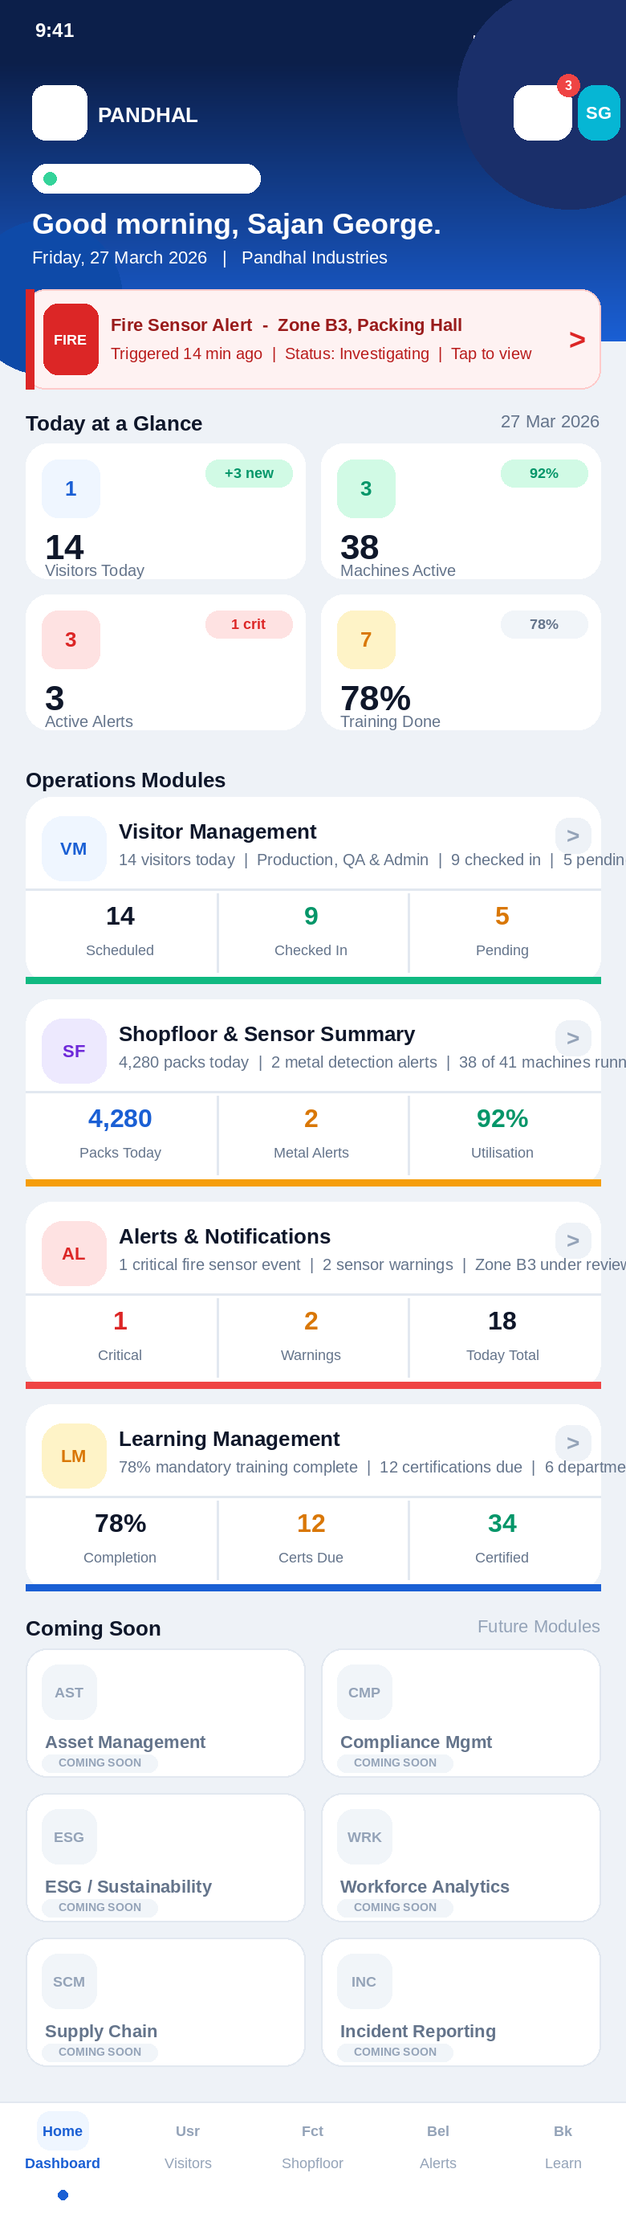
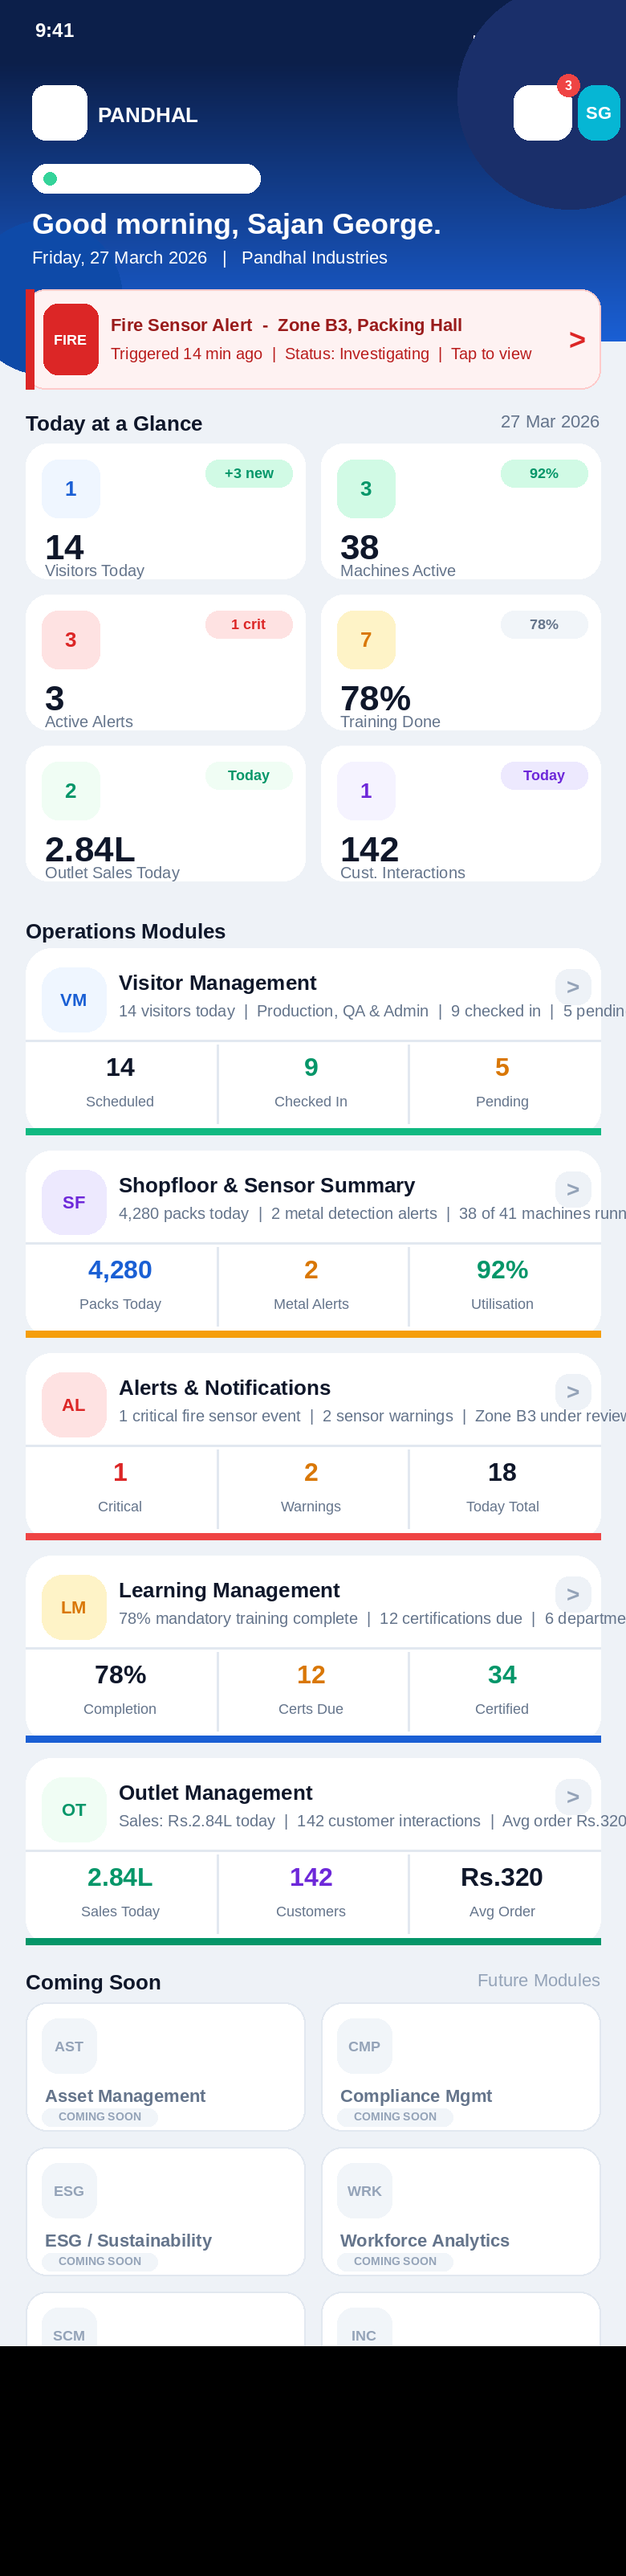
feat: Add Outlet module card and outlet stat cards to dashboard
- Added 'Outlet Sales Today' and 'Cust. Interactions' summary cards
  to the Today at a Glance stats grid (now 3 rows x 2 cols)
- Added 'Outlet Management' as 5th module card with Sales, Customers
  and Avg Order metrics strip
- Canvas height updated to accommodate new content (780x3206px @2x)

https://claude.ai/code/session_01AW6F833uUL7VTLnjMYrGiX

Changed region(s): [[0.0, 0.0, 1.0, 1.0], [0.8615, 0.2798, 0.8923, 0.3109], [0.3385, 0.7462, 0.3692, 0.7773]]

diff --git a/pandhal-enterprise-app/generate_dashboard.py b/pandhal-enterprise-app/generate_dashboard.py
@@ -115,10 +115,12 @@ SY2 = SY+20
 CW2,CH2,GAP = 174,84,10
 
 STATS = [
-    ("#EFF6FF","#1A5FD4","14","Visitors Today", "+3 new","#D1FAE5","#059669"),
-    ("#D1FAE5","#059669","38","Machines Active","92%",   "#D1FAE5","#059669"),
-    ("#FEE2E2","#DC2626","3", "Active Alerts",  "1 crit","#FEE2E2","#DC2626"),
-    ("#FEF3C7","#D97706","78%","Training Done", "78%",   "#F1F5F9","#64748B"),
+    ("#EFF6FF","#1A5FD4","14", "Visitors Today",    "+3 new","#D1FAE5","#059669"),
+    ("#D1FAE5","#059669","38", "Machines Active",   "92%",   "#D1FAE5","#059669"),
+    ("#FEE2E2","#DC2626","3",  "Active Alerts",     "1 crit","#FEE2E2","#DC2626"),
+    ("#FEF3C7","#D97706","78%","Training Done",     "78%",   "#F1F5F9","#64748B"),
+    ("#F0FDF4","#059669","2.84L","Outlet Sales Today","Today","#F0FDF4","#059669"),
+    ("#F5F3FF","#6D28D9","142","Cust. Interactions","Today","#EDE9FE","#6D28D9"),
 ]
 for i,(ibg,icol,val,lbl,pill,pbg,pcol) in enumerate(STATS):
     col,row = i%2, i//2
@@ -133,7 +135,7 @@ for i,(ibg,icol,val,lbl,pill,pbg,pcol) in enumerate(STATS):
     tx(cx+12,cy+73, lbl, sz=10, col="#64748B")
 
 # ── OPERATIONS MODULES ──
-MY = SY2 + 2*(CH2+GAP) + 14
+MY = SY2 + 3*(CH2+GAP) + 14
 tx(16,MY, "Operations Modules", sz=13, bold=True)
 
 MODS = [
@@ -161,6 +163,12 @@ MODS = [
    "78% mandatory training complete  |  12 certifications due  |  6 departments",
    "78%","Completion","#0F172A",  "12","Certs Due","#D97706",  "34","Certified","#059669",
    "#1A5FD4"),
+
+  ("OT","#F0FDF4","#059669",
+   "Outlet Management",
+   "Sales: Rs.2.84L today  |  142 customer interactions  |  Avg order Rs.320  |  8 outlets",
+   "2.84L","Sales Today","#059669",  "142","Customers","#6D28D9",  "Rs.320","Avg Order","#0F172A",
+   "#059669"),
 ]
 
 mc_y = MY+18
